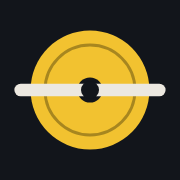
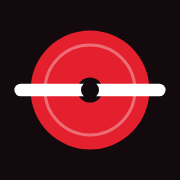
Temă roșu-alb, antet FORȚA CRISTIAN DEMIAN pe toată lățimea
Claude-Session: https://claude.ai/code/session_01W6XgNuQbic1NrEaQHNR2mf

diff --git a/index.html b/index.html
@@ -2,7 +2,7 @@
 <meta name="viewport" content="width=device-width,initial-scale=1,viewport-fit=cover">
 <meta name="apple-mobile-web-app-capable" content="yes"><meta name="mobile-web-app-capable" content="yes">
 <meta name="apple-mobile-web-app-status-bar-style" content="black-translucent"><meta name="apple-mobile-web-app-title" content="Forța">
-<meta name="theme-color" content="#12151b"><link rel="manifest" href="manifest.webmanifest"><link rel="apple-touch-icon" href="icon-180.png">
+<meta name="theme-color" content="#120a0c"><link rel="manifest" href="manifest.webmanifest"><link rel="apple-touch-icon" href="icon-180.png">
 <style>:root{padding-top:0;padding-bottom:0}.top{top:0!important;padding-top:calc(14px + env(safe-area-inset-top,0px))!important}[hidden]{display:none!important}body{margin:0}img{max-width:100%}</style>
 <title>Forța la Sală</title>
 <meta name="claude:viewport-fit-sides" content="cover">
@@ -10,15 +10,17 @@
 <link rel="stylesheet" href="https://fonts.googleapis.com/css2?family=Archivo:wght@400;500;600&family=Saira+Condensed:wght@600;700;800&display=swap">
 </head><body><style>/* Layout: o coloană de telefon, antet lipit sus, navigare jos; antrenamentul se deschide peste tot ecranul */
 :root {
-  --bg: #12151b;
-  --surface: #1a1e26;
-  --surface-2: #232935;
-  --line: #2f3644;
-  --fg: #ece8e0;
-  --muted: #8d94a3;
-  --accent: #f2c230;
-  --accent-ink: #1d1700;
-  --blue: #5b93ff;
+  --bg: #120a0c;
+  --surface: #1d1114;
+  --surface-2: #2a181c;
+  --line: #432428;
+  --fg: #fff6f4;
+  --muted: #b39a9c;
+  --accent: #e4202e;
+  --accent-ink: #ffffff;
+  --blue: #ffffff;
+  --red-hi: #ff4b57;
+  --red-deep: #9e0f1a;
   --good: #4fc38a;
   --bad: #ff6b57;
   --display: 'Saira Condensed', 'Arial Narrow', 'Roboto Condensed', sans-serif;
@@ -271,8 +273,8 @@ textarea.field { padding: 10px 12px; min-height: 90px; resize: vertical; font-si
 .ambient { position: fixed; inset: 0; z-index: 0; pointer-events: none; overflow: hidden; }
 .ambient i { position: absolute; width: 70vmax; height: 70vmax; border-radius: 50%; filter: blur(60px); opacity: .16; }
 .ambient i:nth-child(1) { background: var(--accent); top: -38vmax; right: -30vmax; animation: drift1 22s ease-in-out infinite alternate; }
-.ambient i:nth-child(2) { background: var(--blue); bottom: -40vmax; left: -34vmax; opacity: .12; animation: drift2 26s ease-in-out infinite alternate; }
-.ambient i:nth-child(3) { background: #ff8a3d; top: 40%; left: 60%; width: 40vmax; height: 40vmax; opacity: .06; animation: drift1 30s ease-in-out infinite alternate-reverse; }
+.ambient i:nth-child(2) { background: var(--blue); bottom: -40vmax; left: -34vmax; opacity: .06; animation: drift2 26s ease-in-out infinite alternate; }
+.ambient i:nth-child(3) { background: var(--red-hi); top: 40%; left: 60%; width: 40vmax; height: 40vmax; opacity: .06; animation: drift1 30s ease-in-out infinite alternate-reverse; }
 @keyframes drift1 { to { transform: translate(-12vmax, 14vmax) scale(1.15); } }
 @keyframes drift2 { to { transform: translate(14vmax, -10vmax) scale(1.1); } }
 .app { position: relative; z-index: 1; }
@@ -293,7 +295,7 @@ textarea.field { padding: 10px 12px; min-height: 90px; resize: vertical; font-si
 @property --ang { syntax: '<angle>'; initial-value: 0deg; inherits: false; }
 .next, .rest-day { isolation: isolate; border-color: transparent; background:
   linear-gradient(var(--surface), var(--surface)) padding-box,
-  conic-gradient(from var(--ang), var(--line) 0 60%, var(--accent) 75%, #ff8a3d 82%, var(--line) 92%) border-box;
+  conic-gradient(from var(--ang), var(--line) 0 60%, var(--accent) 72%, #ffffff 80%, var(--accent) 86%, var(--line) 94%) border-box;
   animation: spin 6s linear infinite; }
 @keyframes spin { to { --ang: 360deg; } }
 .next::after { content: ''; position: absolute; inset: auto -20% -60% -20%; height: 120%; background: radial-gradient(closest-side, color-mix(in srgb, var(--accent) 16%, transparent), transparent); z-index: -1; pointer-events: none; animation: breathe 5s ease-in-out infinite; }
@@ -301,7 +303,7 @@ textarea.field { padding: 10px 12px; min-height: 90px; resize: vertical; font-si
 
 /* butonul principal: lumină care trece peste el */
 .btn, .chip, .check, .set .ok, .ex-row, .nav button, .switch { position: relative; overflow: hidden; }
-.btn-main { background: linear-gradient(100deg, var(--accent), #ffd65a 50%, var(--accent)); box-shadow: 0 8px 26px -10px color-mix(in srgb, var(--accent) 80%, transparent); transition: transform .15s, box-shadow .2s; }
+.btn-main { background: linear-gradient(100deg, var(--red-deep), var(--accent) 45%, var(--red-hi) 70%, var(--accent)); box-shadow: 0 8px 26px -10px color-mix(in srgb, var(--accent) 80%, transparent); transition: transform .15s, box-shadow .2s; }
 .btn-main::before { content: ''; position: absolute; top: 0; bottom: 0; width: 40%; left: -60%; background: linear-gradient(100deg, transparent, rgba(255,255,255,.55), transparent); transform: skewX(-20deg); animation: shine 3.6s ease-in-out infinite; }
 @keyframes shine { 0%, 55% { left: -60%; } 85%, 100% { left: 130%; } }
 .btn:active, .chip:active, .check:active, .set .ok:active { transform: scale(.96); }
@@ -324,7 +326,7 @@ textarea.field { padding: 10px 12px; min-height: 90px; resize: vertical; font-si
 .set.done .ok svg path, .check.taken .tick svg path { stroke-dasharray: 24; stroke-dashoffset: 24; animation: tickdraw .35s .05s ease-out forwards; }
 @keyframes tickdraw { to { stroke-dashoffset: 0; } }
 .wex.complete { box-shadow: inset 0 0 0 1.5px color-mix(in srgb, var(--good) 60%, transparent), 0 0 30px -12px var(--good); transition: box-shadow .4s; }
-.progressbar i { background: linear-gradient(90deg, var(--accent), #ff8a3d, var(--accent)); background-size: 200% 100%; animation: flow 2s linear infinite; box-shadow: 0 0 12px var(--accent); }
+.progressbar i { background: linear-gradient(90deg, var(--accent), #ffffff, var(--accent)); background-size: 200% 100%; animation: flow 2s linear infinite; box-shadow: 0 0 12px var(--accent); }
 @keyframes flow { to { background-position: -200% 0; } }
 
 /* navigarea */
@@ -360,10 +362,30 @@ textarea.field { padding: 10px 12px; min-height: 90px; resize: vertical; font-si
 .buddy.flex { margin-top: -10px; margin-bottom: -6px; }
 .buddy.flex .b-vid { height: min(380px, 52vh); }
 .skip-btn { width: 100%; }
+
+/* Antet: FORȚA și CRISTIAN DEMIAN pe toată lățimea */
+.top { display: grid; grid-template-columns: minmax(0, 1fr); gap: 2px; }
+.brand { min-width: 0; overflow: hidden; }
+.brand { display: flex; justify-content: space-between; align-items: baseline; gap: .3em; width: 100%; font: 800 clamp(22px, 8.4vw, 44px)/1 var(--display); letter-spacing: .02em; text-transform: uppercase; white-space: nowrap; }
+.brand .b1, .brand .b2 { font: inherit; letter-spacing: inherit; margin: 0; }
+.brand .b1 { color: var(--accent); text-shadow: 0 0 18px color-mix(in srgb, var(--accent) 55%, transparent); }
+.brand .b2 { color: var(--fg); font: inherit; letter-spacing: inherit; margin: 0; }
+.top .today { text-align: left; }
+.top::after { content: ''; position: absolute; left: 0; right: 0; bottom: -3px; height: 3px; background: repeating-linear-gradient(90deg, var(--accent) 0 26px, #ffffff 26px 52px); background-size: 52px 3px; animation: stripes 2.4s linear infinite; opacity: .9; }
+@keyframes stripes { to { background-position: 52px 0; } }
+/* dungi diagonale roșu-alb în cardul principal */
+.next::before { border: 0 !important; width: 260px !important; height: 260px !important; border-radius: 0 !important; transform: translate(90px, -110px) rotate(35deg) !important;
+  background: repeating-linear-gradient(90deg, color-mix(in srgb, var(--accent) 22%, transparent) 0 18px, color-mix(in srgb, #ffffff 7%, transparent) 18px 36px); }
+.rest-day::before { content: ''; position: absolute; inset: 0; border-radius: inherit; pointer-events: none; z-index: -1; background: radial-gradient(120% 70% at 50% 0%, color-mix(in srgb, var(--accent) 22%, transparent), transparent 60%); }
+.rest-day { position: relative; }
+.dayname, .rest-title { background-image: linear-gradient(90deg, var(--fg) 0%, var(--fg) 38%, var(--red-hi) 50%, var(--fg) 62%, var(--fg) 100%) !important; }
+.eyebrow, .next-up small { color: var(--red-hi); }
+.wd.done span { color: #fff; }
+@media (prefers-reduced-motion: reduce) { .top::after { animation: none; } }
 </style>
 <div class="ambient" aria-hidden="true"><i></i><i></i><i></i></div>
 <div class="app">
-  <header class="top"><div class="brand">For<b>ț</b>a <span>Cristian Demian</span></div><div class="today" id="today"></div></header>
+  <header class="top"><div class="brand"><span class="b1">Forța</span><span class="b2">Cristian Demian</span></div><div class="today" id="today"></div></header>
   <main id="view"></main>
 </div>
 <nav class="nav" id="nav" aria-label="Navigare"></nav>
@@ -824,7 +846,7 @@ const Rig = (() => {
 const FX = (() => {
   const still = window.matchMedia && matchMedia('(prefers-reduced-motion: reduce)').matches;
   let cv, ctx, parts = [], raf = 0;
-  const COLORS = ['#f2c230', '#ece8e0', '#5b93ff', '#4fc38a', '#ff8a3d'];
+  const COLORS = ['#e4202e', '#ffffff', '#ff4b57', '#9e0f1a', '#ffd9dc'];
   function canvas() {
     if (cv) return;
     cv = document.createElement('canvas'); cv.className = 'fx-canvas'; document.body.appendChild(cv);
@@ -1083,8 +1105,19 @@ function render() {
   if (lastTab !== tab) { lastTab = tab; view.classList.remove('enter'); void view.offsetWidth; view.classList.add('enter'); FX.countUp(view); }
   renderWorkout();
   Buddy.start();
+  fitBrand();
 }
 let lastTab = null;
+/* potrivește FORȚA + CRISTIAN DEMIAN exact pe lățimea ecranului */
+function fitBrand() {
+  const b = $('.brand'); if (!b) return;
+  const spans = b.querySelectorAll('span'); let size = 60; b.style.fontSize = size + 'px';
+  const gap = () => size * 0.3;
+  const need = () => [...spans].reduce((w, s) => w + s.getBoundingClientRect().width, 0) + gap();
+  size = Math.max(18, Math.floor(size * b.clientWidth / need() * 0.995)); b.style.fontSize = size + 'px';
+}
+addEventListener('resize', fitBrand);
+if (document.fonts && document.fonts.ready) document.fonts.ready.then(fitBrand);
 
 /* ---------- Ecran: Azi ---------- */
 function suppChecklist() {

diff --git a/sw.js b/sw.js
@@ -1,4 +1,4 @@
-const CACHE = 'forta-v10';
+const CACHE = 'forta-v11';
 const SHELL = ['./', 'index.html', 'manifest.webmanifest', 'icon-192.png', 'icon-180.png', 'mini-cristian.jpg', 'mini-cristian-flex.jpg'];
 self.addEventListener('install', e => { e.waitUntil(caches.open(CACHE).then(c => c.addAll(SHELL)).then(() => self.skipWaiting())); });
 self.addEventListener('activate', e => { e.waitUntil(caches.keys().then(k => Promise.all(k.filter(x => x !== CACHE).map(x => caches.delete(x)))).then(() => self.clients.claim())); });
